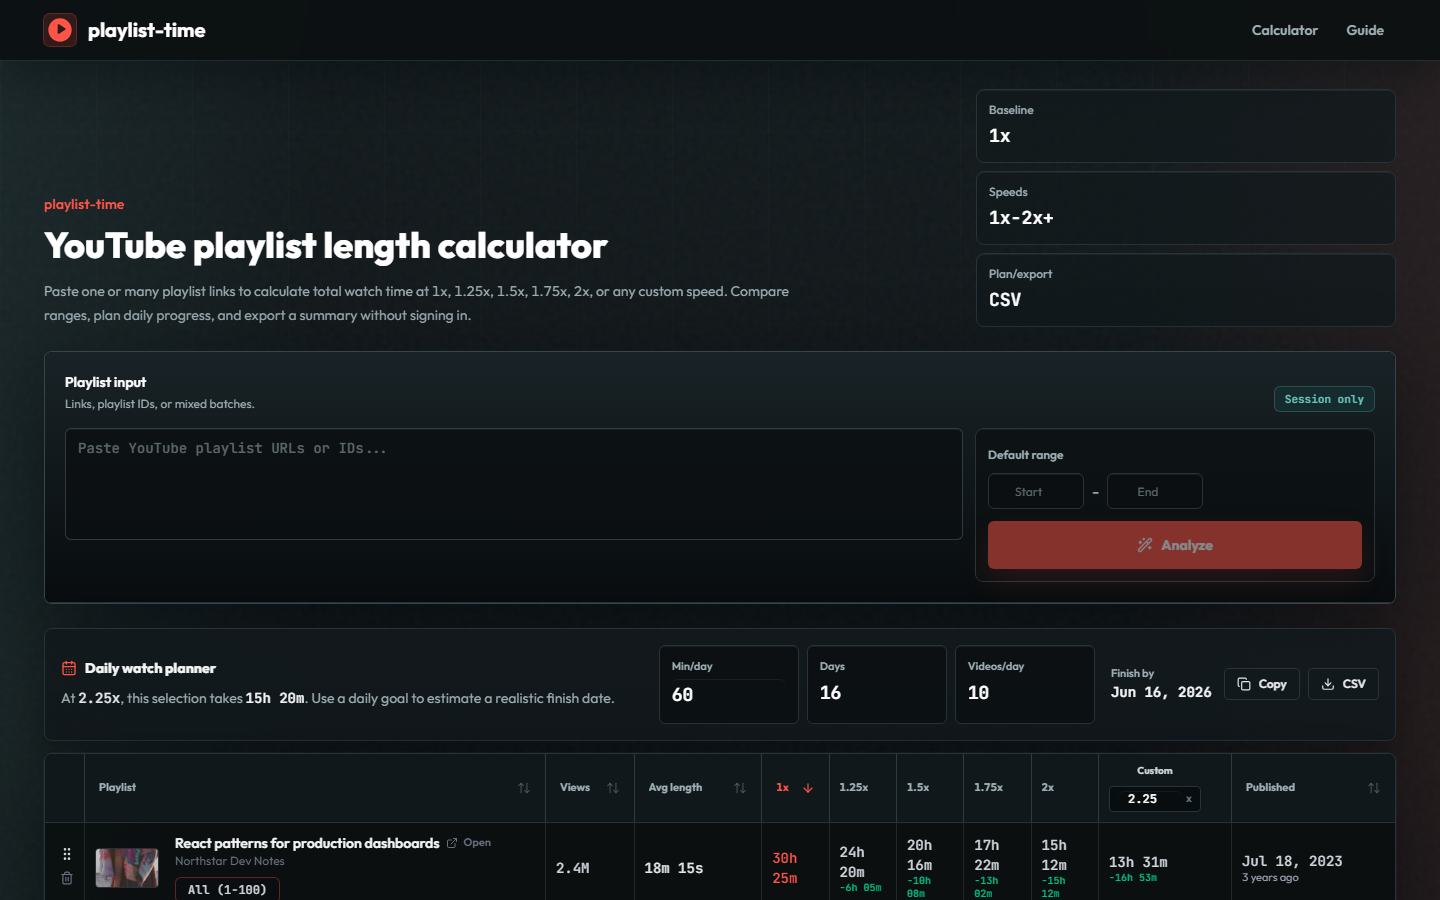
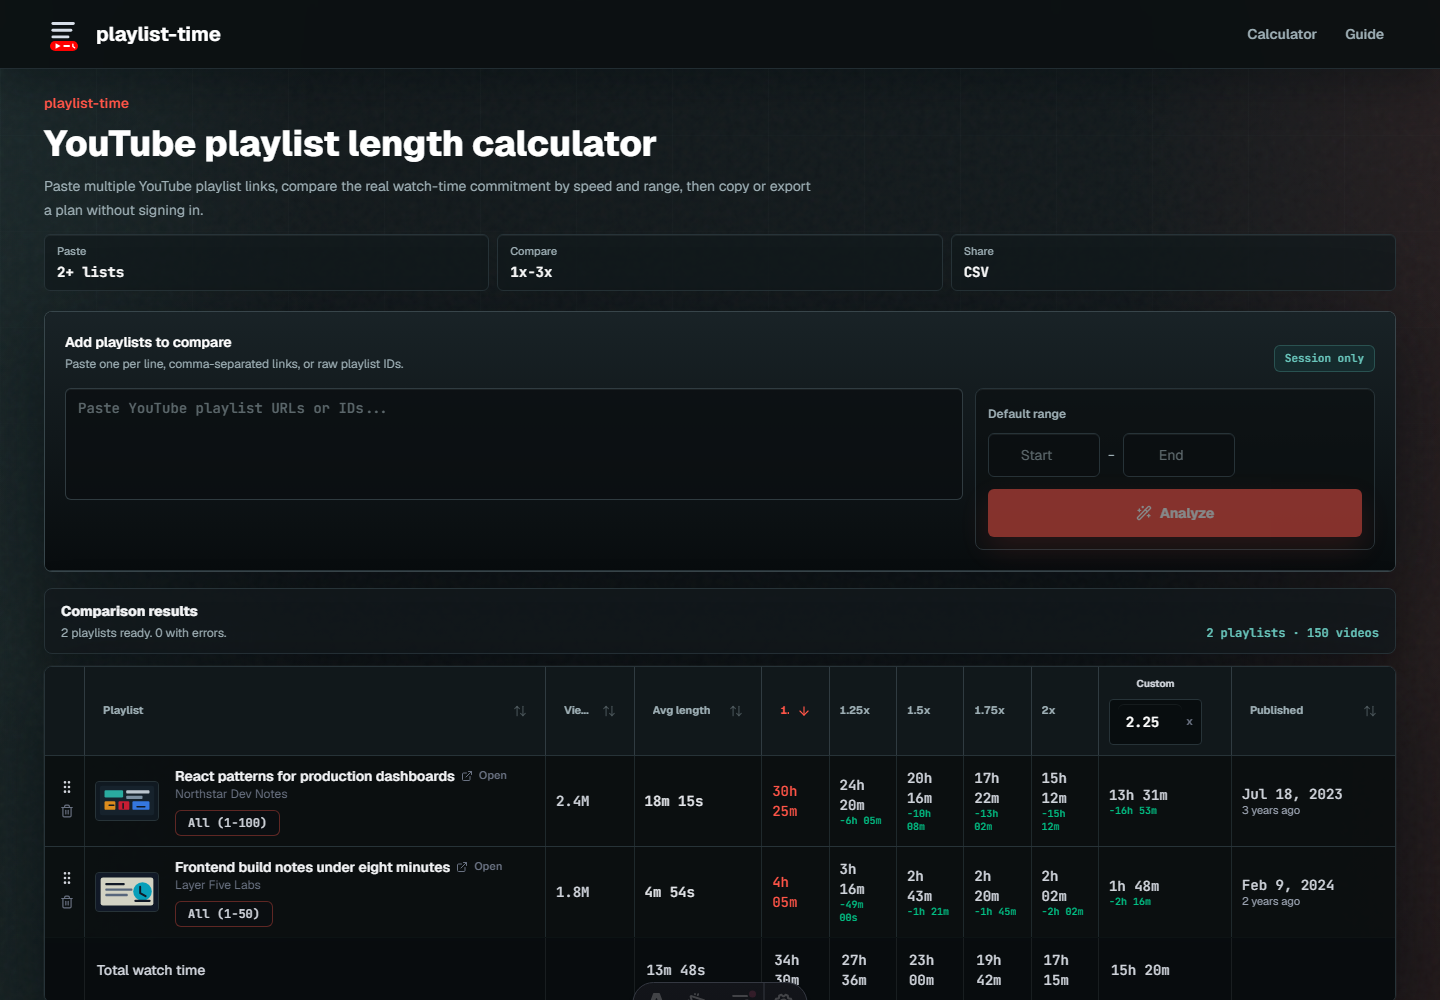
feat: update README for clarity and improve branding in index.astro

diff --git a/README.md b/README.md
@@ -1,36 +1,11 @@
-# Playlist Time 
+# Playlist Time
 
-YouTube playlist watch-time calculator for planning courses, study queues, and long playlists. Paste playlist URLs or IDs, compare totals at different playback speeds, narrow the calculation to a video range, plan daily progress, and export results.
+YouTube playlist calculator for answering the question most people actually have: "how long will this playlist take?"
+
+It works with playlist URLs or raw playlist IDs. You can see the full playlist length, compare watch times at different speeds, limit the calculation to a video range, plan a daily pace, and export the result.
 
 [![CI](https://img.shields.io/github/actions/workflow/status/zoypk/playlist-time/ci.yml?branch=main&label=CI&logo=github&style=flat-square)](https://github.com/zoypk/playlist-time/actions/workflows/ci.yml)
 [![License: AGPL-3.0-only](https://img.shields.io/badge/license-AGPL--3.0--only-2563eb?style=flat-square)](LICENSE)
-
-[Live demo](https://playlist-time.pages.dev) | [Sample data view](https://playlist-time.pages.dev/?demo=1)
-
-![playlist-time first viewport with demo playlist results](docs/playlist-time-first-viewport.png)
-
-## Problem and User
-
-YouTube shows playlist contents, but not the real time commitment for "videos 12-48 at 1.5x." playlist-time answers that question quickly while keeping YouTube API keys server-side.
-
-playlist-time is for learners, course planners, students, creators, and anyone managing long YouTube playlists who needs to answer practical planning questions before they start watching:
-
-- How long will this playlist take at my preferred speed?
-- What happens if I only watch a specific range of videos?
-- How many videos or minutes do I need per day to finish on time?
-- Which playlist in a queue is the biggest time commitment?
-
-## Core Features
-
-- Analyze one or many playlists from pasted URLs or raw playlist IDs.
-- Compare totals at 1x, 1.25x, 1.5x, 1.75x, 2x, or a custom speed.
-- Apply a default video range, then adjust individual rows when needed.
-- Sort playlist totals with thumbnails, channel names, views, publish dates, and durations.
-- Estimate a daily finish date and videos-per-day target from the selected watch time.
-- Copy a readable summary or download CSV results for planning and sharing.
-- Load deterministic sample rows without calling the YouTube API.
-
-## Tech Stack
 
 ![Astro](https://img.shields.io/badge/-Astro-24292f?logo=astro&logoColor=ff5d01&style=flat-square)
 ![React](https://img.shields.io/badge/-React-24292f?logo=react&logoColor=61dafb&style=flat-square)
@@ -39,20 +14,36 @@ playlist-time is for learners, course planners, students, creators, and anyone m
 ![Bun](https://img.shields.io/badge/-Bun-24292f?logo=bun&logoColor=fbf0df&style=flat-square)
 ![Cloudflare Pages](https://img.shields.io/badge/-Cloudflare%20Pages-24292f?logo=cloudflare&logoColor=f38020&style=flat-square)
 
-- Astro 6 for the static site shell and build pipeline.
-- React 19 and TypeScript for the interactive calculator.
-- TanStack Query and TanStack Table for API state and sortable playlist results.
-- Tailwind CSS, Radix UI primitives, and lucide-react for the interface.
-- Bun for package management, local scripts, and unit tests.
-- Cloudflare Pages Functions and Wrangler for the serverless API and deployment.
-- YouTube Data API v3 for playlist metadata and video durations.
+[Live app](https://playlist-time.pages.dev) | [Sample data](https://playlist-time.pages.dev/?demo=1)
 
-## Architecture Overview
+![playlist-time first viewport with demo playlist results](docs/playlist-time-first-viewport.png)
 
-- Astro serves the static shell; a React/TypeScript island owns the calculator state.
-- Cloudflare Pages Functions proxy the YouTube Data API so `YOUTUBE_KEYS` never reaches the browser.
-- The batch API de-duplicates playlist IDs, bounds concurrency, rotates API keys on quota/rate failures, and returns per-playlist errors.
-- Successful API responses use a short Cloudflare edge cache; the browser keeps only session-level UI state.
+## Why It Exists
+
+This is useful for courses, tutorials, and long study playlists where the first question is usually the total time commitment. After that, the planning questions get more specific:
+
+- How long is the whole playlist?
+- How much time is left if playback starts from video 12?
+- What does the total look like at 1.5x or 1.75x?
+- Can this be finished before a certain date?
+- Which playlist in a queue is going to take the most time?
+
+The app keeps that workflow simple, while the YouTube API key stays on the server side instead of being shipped to the browser.
+
+## What It Does
+
+- Accepts one playlist or a batch of playlists.
+- Parses normal YouTube playlist URLs and raw playlist IDs.
+- Shows totals at common speeds and a custom speed.
+- Lets you calculate only a selected video range.
+- Sorts playlist results with thumbnails, channel names, publish dates, views, and durations.
+- Estimates daily pace from a target finish date.
+- Copies a text summary or downloads CSV results.
+- Includes a deterministic demo mode, so the UI can be checked without API keys.
+
+## How It Works
+
+The frontend is an Astro page with a React calculator mounted inside it. The API runs as Cloudflare Pages Functions and calls the YouTube Data API from there.
 
 ```text
 Browser
@@ -61,61 +52,67 @@ Browser
   -> YouTube Data API v3
 ```
 
-Key files:
+Some details that matter:
 
-- `src/pages/index.astro` mounts the page shell and React app.
-- `src/components/App.tsx` coordinates playlist input, speed/range controls, planning, and export flows.
-- `src/components/PlaylistsTable.tsx` renders single-playlist and multi-playlist result states.
-- `functions/api/playlist.ts` handles the single-playlist API route, YouTube calls, caching, and shared helpers.
+- `YOUTUBE_KEYS` is only read by the Functions runtime.
+- Batch requests de-duplicate playlist IDs and limit concurrency.
+- Multiple YouTube keys can be configured so the API can rotate on quota or rate-limit failures.
+- Successful responses use a short edge cache.
+- The browser keeps UI state only for the current session.
+
+## Code Map
+
+- `src/pages/index.astro` mounts the page shell.
+- `src/components/App.tsx` owns the calculator flow.
+- `src/components/PlaylistsTable.tsx` renders playlist results.
+- `functions/api/playlist.ts` handles the single-playlist route.
 - `functions/api/playlists.ts` handles batch playlist analysis.
-- `src/shared/contracts.ts` keeps frontend/backend response shapes aligned.
+- `src/shared/contracts.ts` keeps frontend and backend response shapes aligned.
 
-## Local Setup
+## Run Locally
 
-Prerequisites:
-
-- Bun
-- Wrangler, installed through the project dependencies
-- One or more YouTube Data API keys
+Install dependencies:
 
 ```bash
 bun install
 cp .dev.vars.example .dev.vars
 ```
 
-Set local function variables in `.dev.vars`:
+Add one or more YouTube Data API keys to `.dev.vars`:
 
 ```env
 YOUTUBE_KEYS=YOUR_YOUTUBE_DATA_API_KEY,YOUR_OPTIONAL_FALLBACK_YOUTUBE_DATA_API_KEY
 ```
 
-Run the Astro frontend:
+Start the Astro app:
 
 ```bash
 bun run dev
 ```
 
-In a second terminal, run the local Pages Functions API:
+In another terminal, start the local Pages Functions runtime:
 
 ```bash
 bun run worker:dev
 ```
 
-Astro proxies `/api/*` to `http://127.0.0.1:8788`, so both processes are needed for real YouTube API calls. The sample data route at `/?demo=1` can be used without API keys.
+The frontend proxies `/api/*` to `http://127.0.0.1:8788`, so both processes are needed for real API calls. The sample route works without keys:
 
-## Environment Variables
+```text
+http://localhost:4321/?demo=1
+```
+
+## Environment
 
 | Name | Required | Where | Purpose |
 | --- | --- | --- | --- |
-| `YOUTUBE_KEYS` | Yes for real API calls | `.dev.vars` locally; Cloudflare Pages environment variables in production | Comma-separated YouTube Data API keys. Multiple keys allow fallback when one key is quota-limited. |
+| `YOUTUBE_KEYS` | Yes for real API calls | `.dev.vars` locally; Cloudflare Pages env vars in production | Comma-separated YouTube Data API keys. |
 
 Do not commit `.dev.vars`. If a real key is ever committed, revoke or rotate it before publishing.
 
 For reporting security issues or accidental key exposure, see [SECURITY.md](SECURITY.md).
 
-## Verification Status
-
-Run the local checks:
+## Checks
 
 ```bash
 bun run check
@@ -123,24 +120,22 @@ bun run test
 bun run build
 ```
 
-Current tests cover playlist input parsing, range normalization, API key parsing, cache-key generation, and bounded concurrency helpers. `bun run check` validates Astro and TypeScript, and `bun run build` verifies the production bundle.
+Current tests cover playlist input parsing, range normalization, API key parsing, cache-key generation, and bounded concurrency helpers. There is also a demo smoke test, but fuller E2E coverage is still a good next step.
 
-One demo smoke test exists; fuller E2E coverage is future work.
-
-## API Endpoints
+## API
 
 - `GET /api/playlist?list=PLAYLIST_ID`
 - `GET /api/playlist?list=PLAYLIST_ID&refresh=1`
 - `GET /api/playlists?lists=ID1,ID2,ID3`
 - `GET /api/playlists?lists=ID1,ID2,ID3&refresh=1`
 
-The single-playlist route returns playlist metadata plus ordered video durations. The batch route accepts up to 50 valid playlist IDs and returns separate `results`, `errors`, and `meta` fields.
+The single-playlist route returns playlist metadata and ordered video durations. The batch route accepts up to 50 valid playlist IDs and returns separate `results`, `errors`, and `meta` fields.
 
 ## Deployment
 
-The app is deployed on Cloudflare Pages.
+The production app runs on Cloudflare Pages with Pages Functions.
 
-Build settings:
+Cloudflare Pages settings:
 
 - Project name: `playlist-time`
 - Build command: `bun run build`
@@ -148,9 +143,7 @@ Build settings:
 - Functions directory: `functions`
 - Production variable: `YOUTUBE_KEYS`
 
-Cloudflare Pages runs production builds on deploy. This is a Pages project with Pages Functions, so deployments should use the Pages flow instead of `wrangler deploy`.
-
-Manual deployment command:
+Manual deploy:
 
 ```bash
 bun run build
@@ -159,23 +152,19 @@ bun run deploy:pages
 
 Production secrets should be configured in Cloudflare Pages, not committed to the repository.
 
-## Screenshots and Demo
+## Screenshots
 
 - Live app: [playlist-time.pages.dev](https://playlist-time.pages.dev)
-- Deterministic sample: [playlist-time.pages.dev/?demo=1](https://playlist-time.pages.dev/?demo=1)
+- Sample data: [playlist-time.pages.dev/?demo=1](https://playlist-time.pages.dev/?demo=1)
 - Desktop screenshot: [docs/playlist-time-first-viewport.png](docs/playlist-time-first-viewport.png)
 - Mobile screenshot: [docs/playlist-time-mobile.png](docs/playlist-time-mobile.png)
 - Table detail screenshot: [docs/playlist-time-sample-rows.png](docs/playlist-time-sample-rows.png)
 
-## Limitations
+## Known Limits
 
 - Results depend on YouTube Data API availability, quota, and playlist visibility.
 - Private, deleted, unavailable, or region-blocked videos can affect totals.
-- The rate limiter is lightweight and per-runtime; it is not a durable abuse-prevention system.
-
-## My Role
-
-Personal project. I built the product scope, UI, serverless API, YouTube integration, caching behavior, deployment setup, and tests.
+- The rate limiter is lightweight and per-runtime; it is not durable abuse protection.
 
 ## License
 